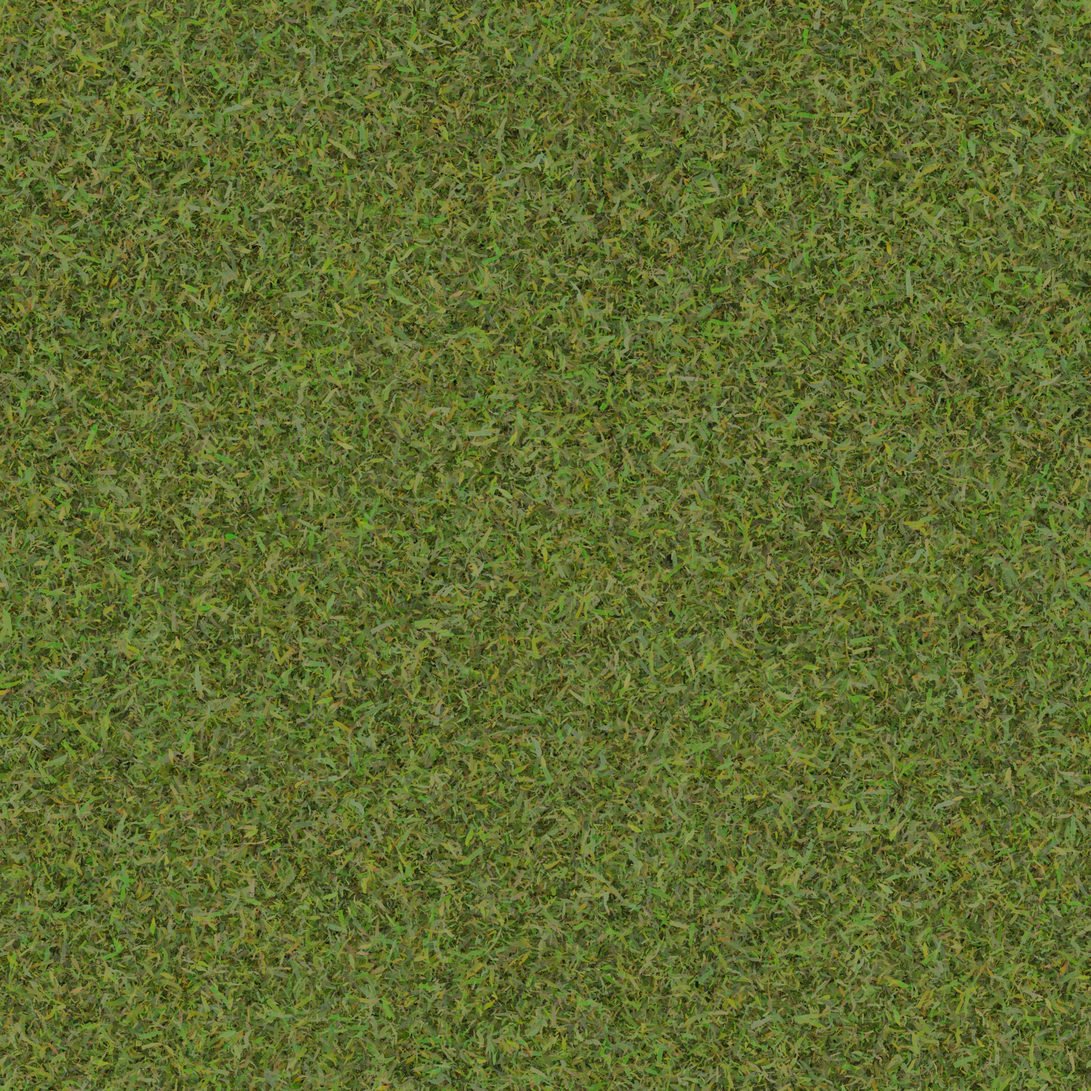
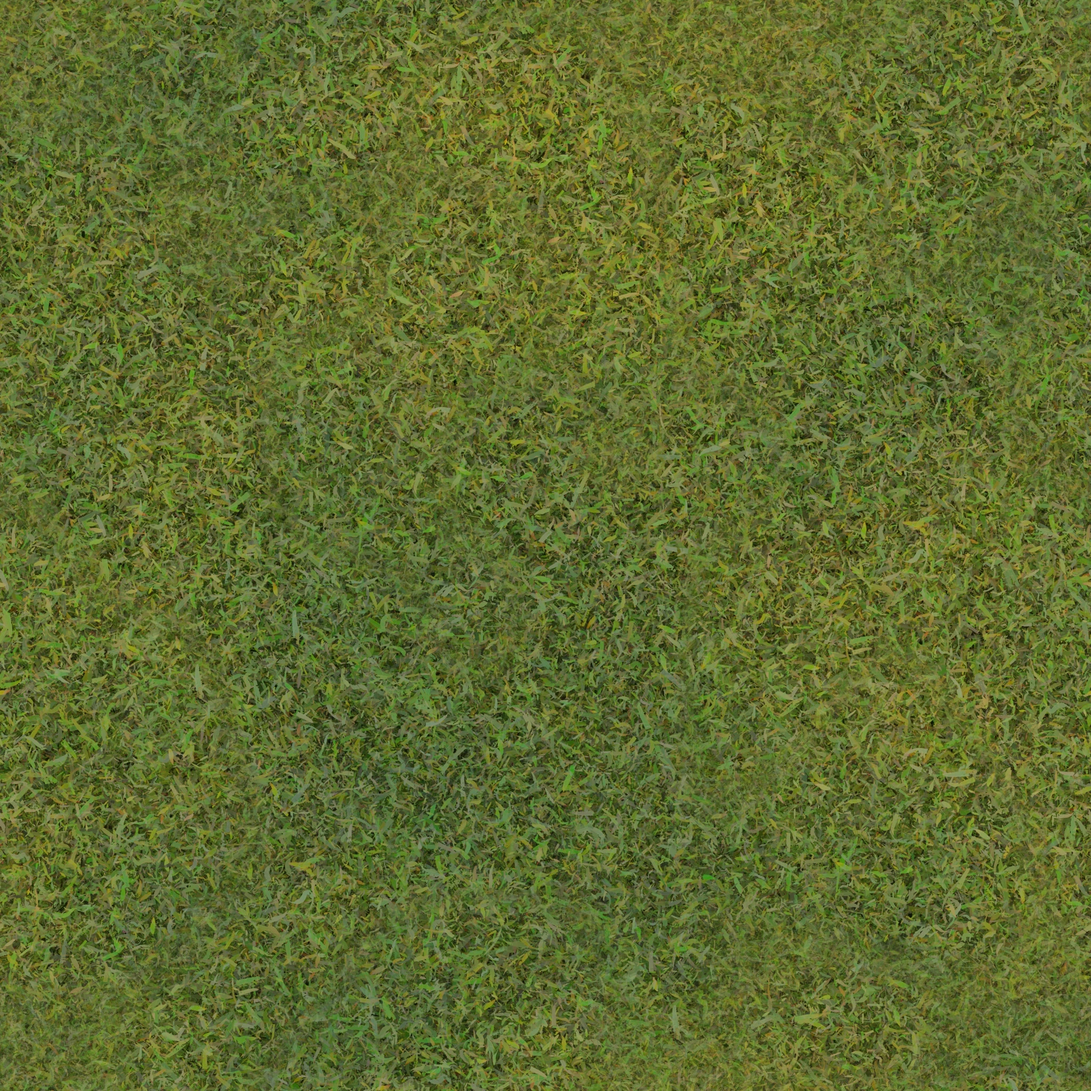
将草簇、花岗岩磨耗和整组屋面外墙风化烘焙到纹理素材

diff --git a/scenes/marina-bay/scripts/bake-outdoor-finishes.py b/scenes/marina-bay/scripts/bake-outdoor-finishes.py
@@ -1,0 +1,91 @@
+"""Bake repeatable surface variation into registered colour and material scans."""
+import argparse
+from pathlib import Path
+
+import numpy as np
+from PIL import Image
+from scipy.ndimage import zoom
+
+
+def field(side, seed, rows, columns):
+    """Periodic smooth field sampled at texel centres, independent of resolution."""
+    grid = np.random.default_rng(seed).uniform(-1, 1, (rows, columns)).astype(np.float32)
+    grid -= grid.mean()
+    return zoom(grid, (side / rows, side / columns), order=3, mode="grid-wrap", grid_mode=True)
+
+
+def encode(path, pixels, *, lossless=False):
+    image = Image.fromarray(np.rint(pixels).clip(0, 255).astype(np.uint8))
+    image.save(path, lossless=lossless, quality=92, method=6, exact=True)
+
+
+def ground(source, output, name):
+    for channel in ("color", "surface"):
+        filename = f"{name}-{channel}.webp"
+        scan = np.asarray(Image.open(source / filename), dtype=np.float32)
+        side = len(scan)
+        if name == "turf":
+            # Both resolutions select the same intact clumps from the original scan.
+            weight = np.clip(field(side, 1217, 6, 8) * 3 + .5, 0, 1)[..., None]
+            other = np.roll(scan, (side * 5 // 16, side * 7 // 16), axis=(0, 1))
+            scan += (other - scan) * weight
+            wear = .72 * field(side, 1811, 4, 3) + .28 * field(side, 1812, 13, 9)
+            tint = [.21, .095, -.06]
+        else:
+            # Mineral and polish variation within the granite, independent of slab order.
+            wear = .58 * field(side, 2451, 9, 7) + .42 * field(side, 2452, 18, 24)
+            tint = [.16, .115, .07]
+        if channel == "color":
+            scan *= 1 + wear[..., None] * tint
+        else:
+            # Lower, smoother worn patches retain the original normal direction.
+            worn = np.maximum(wear, 0)
+            scan[..., :2] = 127.5 + (scan[..., :2] - 127.5) * (1 - .20 * worn[..., None])
+            scan[..., 2] -= 18 * wear
+        encode(output / filename, scan, lossless=channel == "surface")
+
+
+def buildings(source, output):
+    atlas = np.array(Image.open(source / "facades.webp"))
+    side = atlas.shape[1] // 4
+    for layer in range(4 * atlas.shape[0] // side):
+        y, x = layer // 4 * side, layer % 4 * side
+        tile = atlas[y:y + side, x:x + side]
+        seed = 3779 + 3 * layer
+        # Metal roofing and wall panels stain along their ribs. Concrete weathers in patches.
+        rows, columns = (3, 13) if layer == 7 else (6, 5) if layer in (8, 9) else (3, 8)
+        wear = .70 * field(side, seed, rows, columns) + .30 * field(side, seed + 1, 19, 17)
+        glass = (tile[..., 3].astype(np.float32) - 128).clip(0, 127) / 127
+        amount = wear * (1 - .84 * glass)
+        rgb = tile[..., :3] * (1 + amount[..., None] * [.20, .15, .105])
+        tile[..., :3] = np.rint(rgb).clip(0, 255)
+    encode(output / "facades.webp", atlas)
+
+
+def ground_grain(source, output):
+    packed = np.array(Image.open(source / "surface-detail.webp"), dtype=np.float32)
+    side = len(packed)
+    for channel in range(3):
+        grain = packed[..., channel]
+        # Grass, paving and road grain each has its own patch boundaries.
+        mix = np.clip(field(side, 371 + channel, 6, 7) * 4 + .5, 0, 1)
+        shifted = np.roll(grain, (side * 3 // 8, side // 4), axis=(0, 1))
+        mean = grain.mean()
+        grain += mix * (shifted - grain)
+        grain += mean - grain.mean()
+    # RGB packs independent scalar measurements. Preserve all three channels.
+    encode(output / "surface-detail.webp", packed, lossless=True)
+
+
+if __name__ == "__main__":
+    parser = argparse.ArgumentParser(description=__doc__)
+    parser.add_argument("source", type=Path, help="Original geography texture directory")
+    parser.add_argument("output", type=Path)
+    args = parser.parse_args()
+    if args.source.resolve() == args.output.resolve():
+        parser.error("Use separate input and output directories to keep the original scans")
+    args.output.mkdir(parents=True, exist_ok=True)
+    for material in ("turf", "pavers"):
+        ground(args.source, args.output, material)
+    buildings(args.source, args.output)
+    ground_grain(args.source, args.output)

diff --git a/web/src/assets/geography/SOURCES.md b/web/src/assets/geography/SOURCES.md
@@ -12,3 +12,5 @@
 铺装表面图的 A 通道保存石材的存水倾向。用同一份 Granite Tile 04 的 1K 高度、OpenGL 法线和粗糙度 PNG，依次作为输入传给 `scenes/marina-bay/scripts/bake-paver-surface.py`，第四个参数指定输出 WebP。石缝和湿边采用周期滤波离线烘焙，填入 128 至 252 的范围；湿痕的米制分布由材质控制。[风化方法参考 hypbr](https://github.com/wrong-nebula/hypbr/blob/58beced3de0d58a827c20a166789be9770855cbb/hypbr/weathering.py)
 
 地图拉伸建筑共用二十八层纹理，七层高楼窗墙取自 ambientCG 的 Facade018A、Facade019A、Facade006、Facade005、Facade013、Facade015 和 Facade020A。Facade015 的横向楼板和 Facade020A 的深色竖柱按各自的楼层间距重复。另有六层中高楼立面使用阳台凹槽、陶板竖条、石材立柱、蓝色层间板、成对窗及横向百叶。四层采用错列阳台、砂岩横窗、带搪瓷竖板的青灰玻璃及跨两层的混凝土框架。其余四种高楼立面使用错位敞廊、成组陶制遮阳板、预制混凝土洞口和错缝玻璃横窗。涂层使用 RibbedFront 材质中的细微明暗。玻璃和混凝土纹理分别来自 Facade005 和 Concrete Floor 02。四层街墙用砖墙、面砖、压型钢板和肋纹混凝土组合窗带、门扇和百叶。窗玻璃采样场景内的庭院日光。三层屋面分别为金属板、灰瓦和混凝土。墙面、金属和屋面扫描素材为 CC0，开间和楼层尺寸为视觉近似。[ambientCG](https://ambientcg.com/list?search=facade) · [Poly Haven 各材质来源](../../../../scenes/marina-bay/references/skyline-finishes/footprints.json)
+
+草皮、花岗岩、地表细节和外墙屋面图集经过二次烘焙。用原始六张 WebP 所在的目录作输入，将另一目录作输出，运行 `scenes/marina-bay/scripts/bake-outdoor-finishes.py`。固定种子分别控制草簇拼接、石材磨耗与板面风化。颜色、法线和粗糙度按相同的归一化坐标取样。图集的 A 通道保存原有玻璃遮罩。
